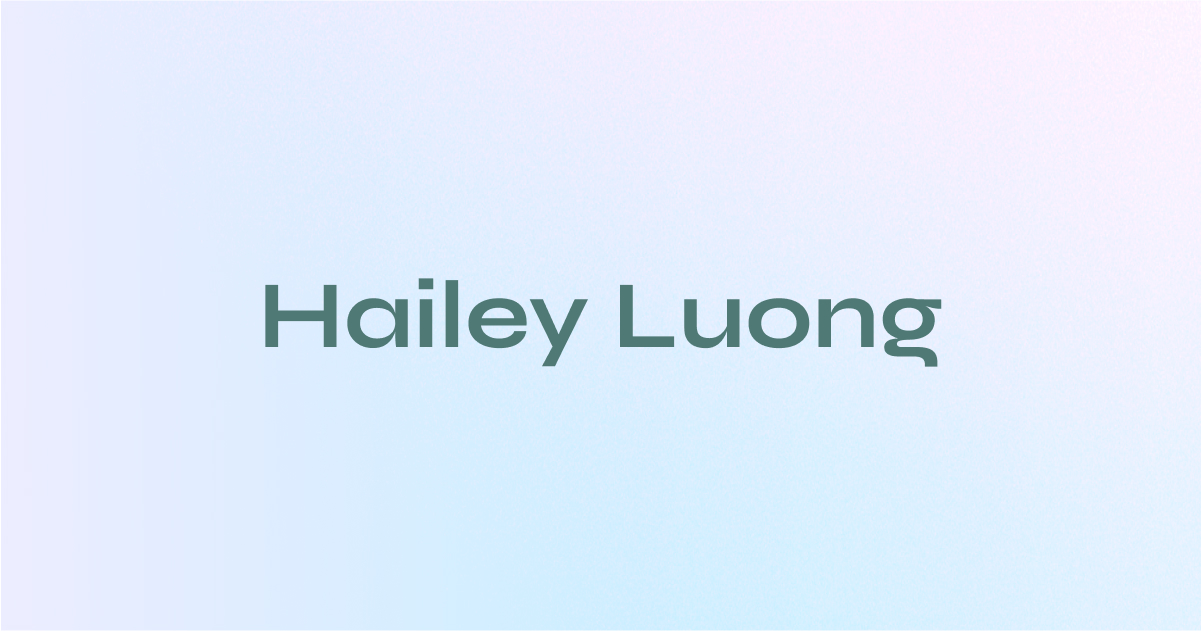
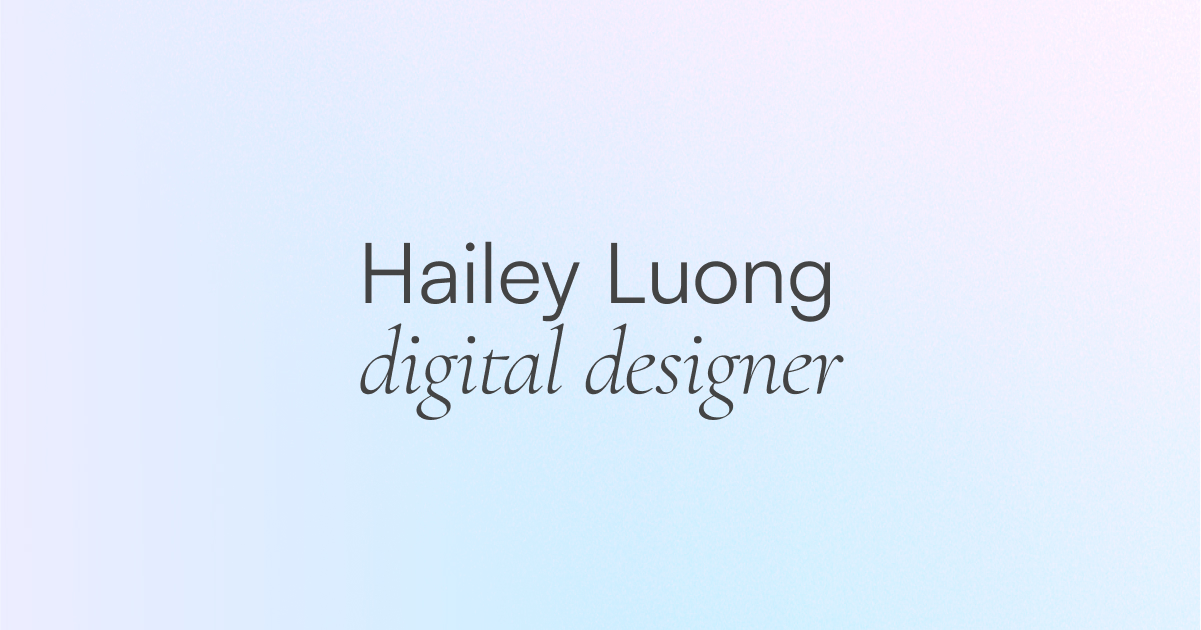
Updated OG

Changed region(s): [[0.2157, 0.3921, 0.801, 0.6635], [0.4929, 0.9952, 0.5545, 1.0], [0.5853, 0.9952, 0.6162, 1.0]]

diff --git a/index.html b/index.html
@@ -9,7 +9,7 @@
 
     <meta property="og:image" content="https://drive.google.com/uc?export=view&id=1GQPVaTDt8DOGFk_G0oXFoL1m1En1Ijq7"/>
     <meta property="og:title" content="Hailey Luong's Portfolio"/>
-    <meta property="og:description" content="Hello! I’m Hailey Luong (she/her), a design student in Toronto who's passionate about developing creative and inclusive solutions."/>
+    <meta property="og:description" content="Hello! I’m Hailey Luong (she/her), a digital design student in Toronto."/>
     <meta property="og:image:width" content="1200"/>
     <meta property="og:image:height" content="630"/>
 
